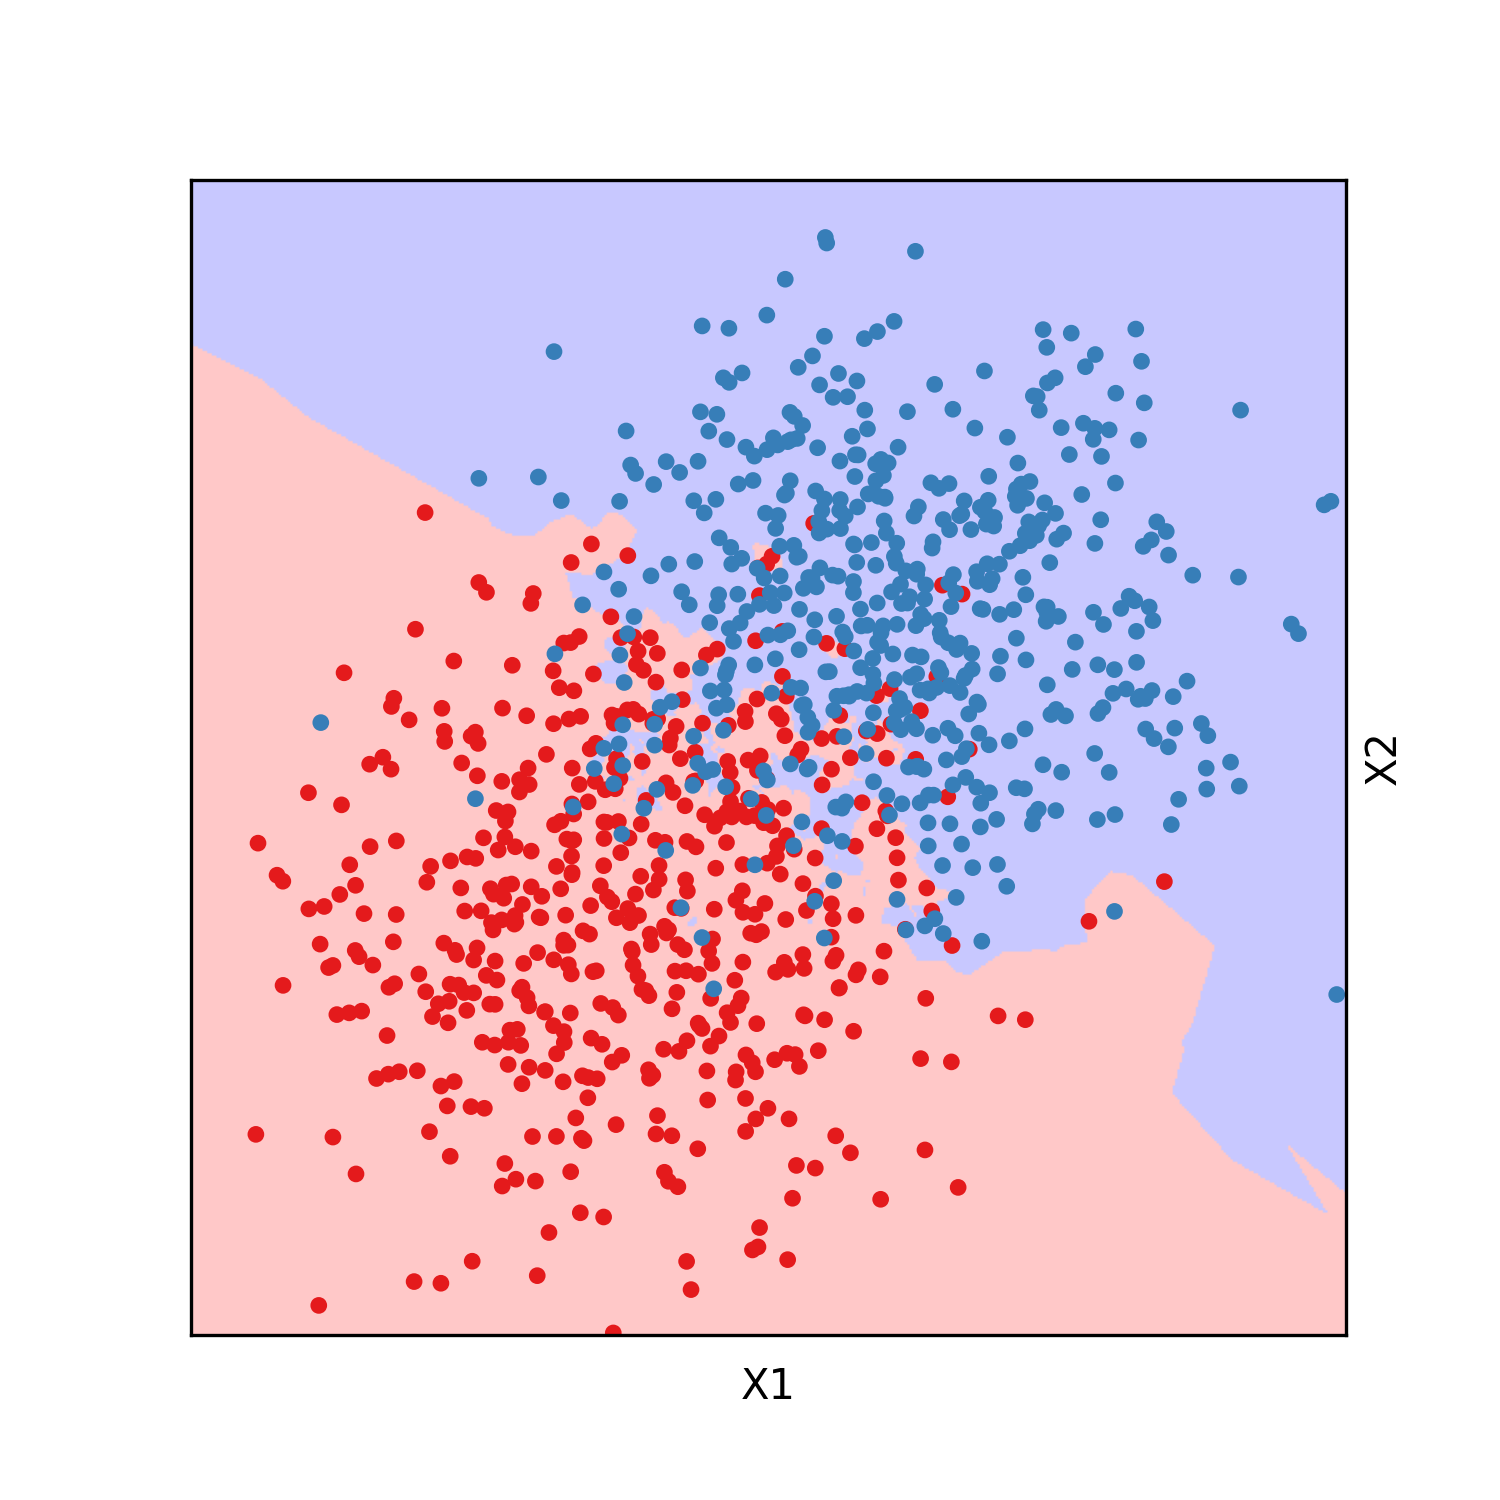
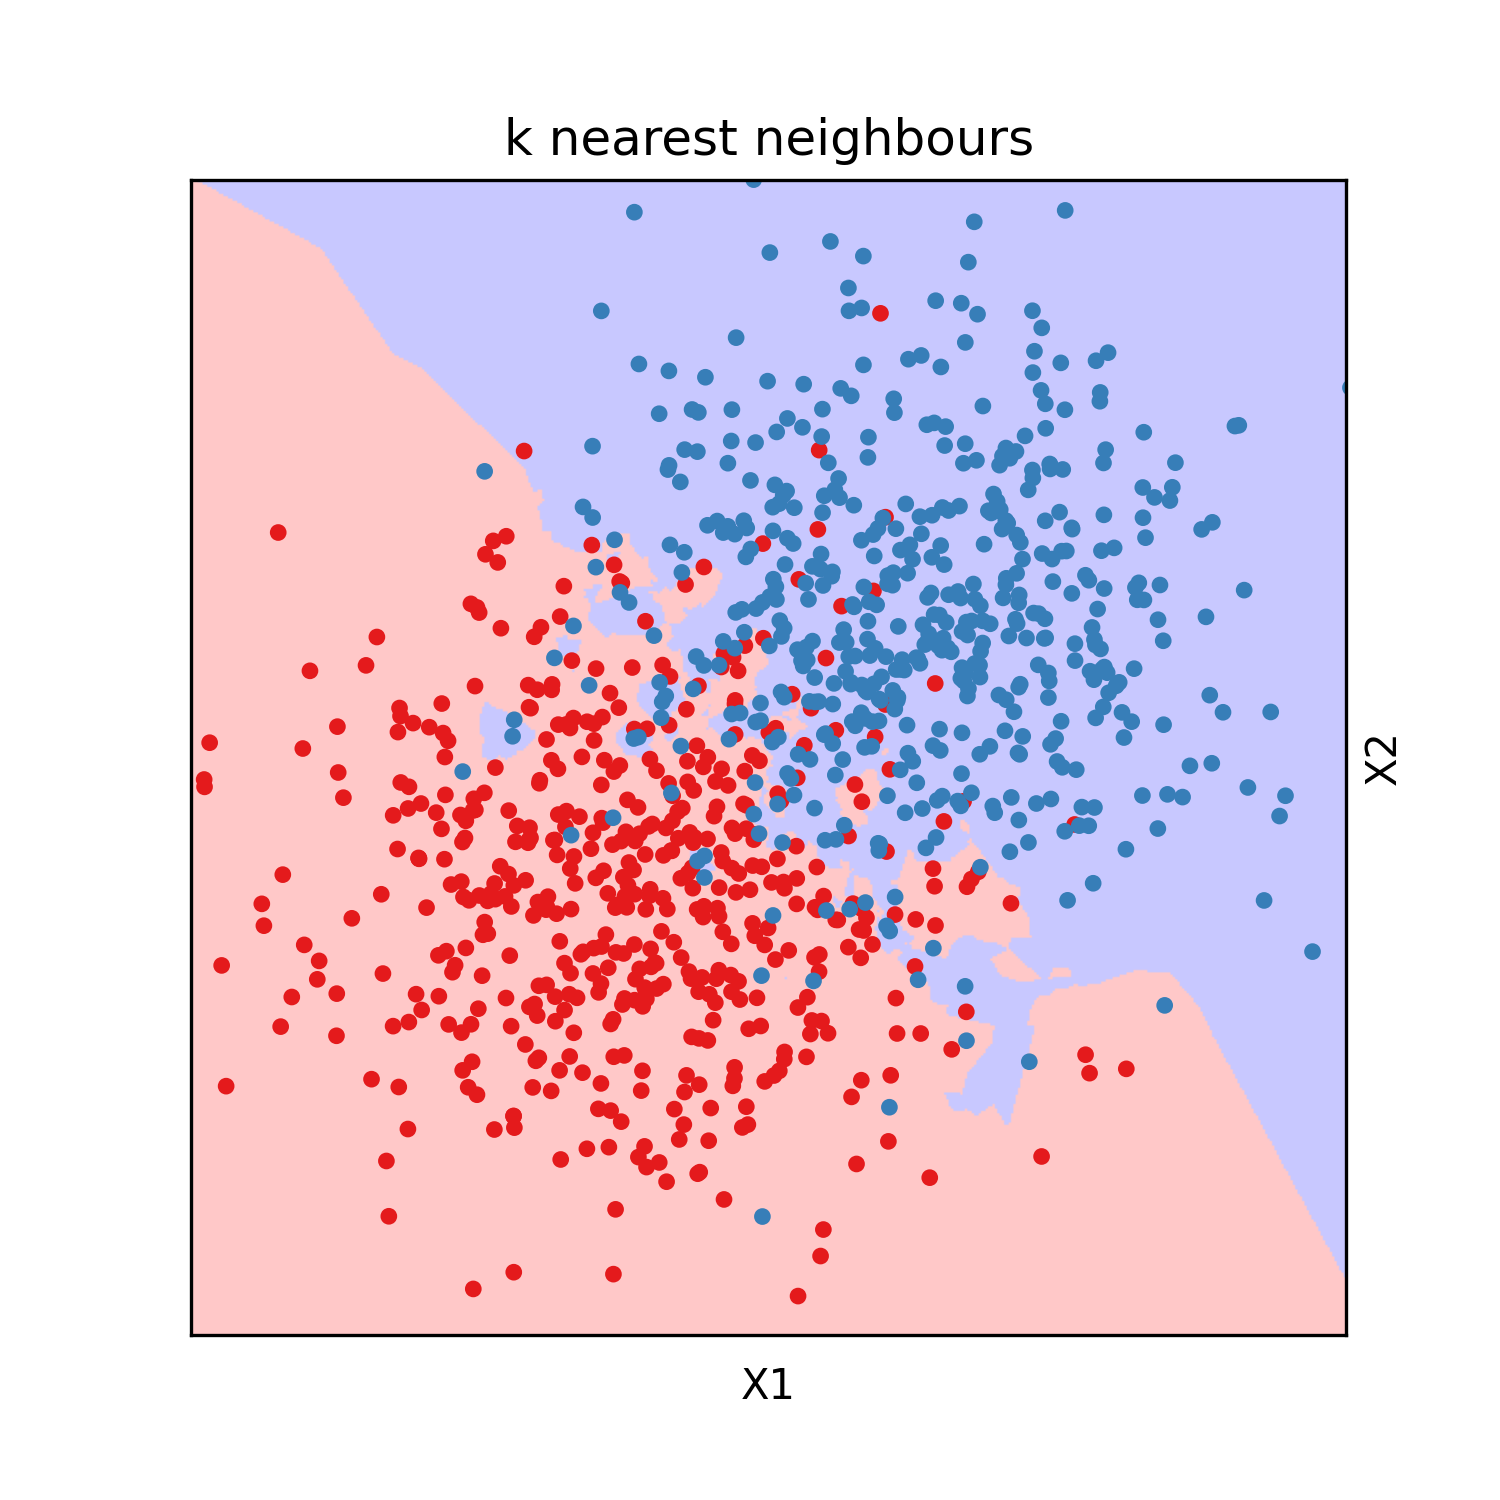
modified polynomial regression

diff --git a/introduction_to_machine_learning/images/gif_lagrange_polynome_interpolation/Lagrange_polynomial_interpolation.py b/introduction_to_machine_learning/images/gif_lagrange_polynome_interpolation/Lagrange_polynomial_interpolation.py
@@ -14,7 +14,7 @@ path = pathlib.Path(__file__).parent
 
 
 def target(X):
-    return 3*X + 30 + np.random.normal(0, 10, size=X.shape)
+    return 10 * (X**3 + 0.5 * X**2 * X + np.random.normal(0, 0.2, size=X.shape) * (0.3 + np.abs(X)))
 
 
 def fit(Xobs: np.ndarray, Ytarget: np.ndarray, n: int) -> np.ndarray:
@@ -42,16 +42,16 @@ def model(X: np.ndarray, w: np.ndarray, Xobs: np.ndarray, Ytarget: np.ndarray) -
     return x@w * Ytarget.std() + Ytarget.mean()
 
 
-Xobs = np.linspace(7, 20, 30, dtype=np.longdouble)
-X = np.linspace(7, 20, 1000, dtype=np.longdouble)
+Xobs = np.linspace(-1, 1, 30, dtype=np.longdouble)
+X = np.linspace(-1, 1, 1000, dtype=np.longdouble)
 Ytarget = target(Xobs)
 delta = Ytarget.max() - Ytarget.min()
-ylims = [0, Ytarget.max() + 0.05*delta]
+ylims = [Ytarget.min() - 0.05*delta, Ytarget.max() + 0.05*delta]
 
-Xval = np.linspace(7, 20, 10, dtype=np.longdouble)
+Xval = np.linspace(-1, 1, 20, dtype=np.longdouble)
 Yval = target(Xval)
 
-weights = [fit(Xobs, Ytarget, n) for n in range(1, len(Xobs))]
+weights = [fit(Xobs, Ytarget, n) for n in range(1, 21)]
 MSE_train = [np.sum((Ytarget - model(Xobs, w, Xobs, Ytarget))**2) for w in weights]
 MSE_val = [np.sum((Yval - model(Xval, w, Xobs, Ytarget))**2) for w in weights]
 
@@ -64,6 +64,8 @@ for n, w in enumerate(weights, start=1):
     axes[0].set_ylim(ylims)
     axes[0].set_xlabel("x")
     axes[0].set_ylabel("y")
+    axes[0].set_xticks([])
+    axes[0].set_yticks([])
     axes[0].legend(loc="upper left")
 
     x_train = np.arange(1, n+1) - 0.25/2
@@ -98,7 +100,7 @@ for n, w in enumerate(weights, start=1):
 
 image = PIL.Image.open(files[0]).convert('P')
 images = [PIL.Image.open(file).convert('P') for file in files[1:] + [files[-1]]*5]
-image.save(path / 'Lagrange_polynomial_interpolation.gif', save_all=True, append_images=images, loop=0, duration=10, transparency=0, disposal=2)
+image.save(path / 'Lagrange_polynomial_interpolation.gif', save_all=True, append_images=images, loop=0, duration=500, transparency=0, disposal=2)
 
 for file in files:
     os.remove(file)

diff --git a/introduction_to_machine_learning/images/gif_v_shape_linear_regression/v_shape.py b/introduction_to_machine_learning/images/gif_v_shape_linear_regression/v_shape.py
@@ -1,0 +1,62 @@
+import numpy as np
+from scipy.interpolate import lagrange
+import matplotlib as mpl
+import matplotlib.pyplot as plt
+import PIL
+import pathlib
+import numpy as np
+import os
+
+plt.style.use("bmh")
+path = pathlib.Path(__file__).parent
+
+
+def fit(Xobs: np.ndarray, Ytarget: np.ndarray, n: int) -> np.ndarray:
+    """
+    returns weights of polynom of degree n
+    """
+    Xobs = (Xobs - Xobs.mean())/Xobs.std()
+    Ytarget = (Ytarget - Ytarget.mean()) / Ytarget.std()
+    if n < len(Xobs)-1:
+        xobs = np.stack([Xobs**i for i in range(n, -1, -1)], axis=1)
+        w, _, _, _ = np.linalg.lstsq(xobs, Ytarget, rcond=None)
+    else:
+        poly = lagrange(Xobs, Ytarget)
+        w = poly.coef
+    return w
+
+
+def model(X: np.ndarray, w: np.ndarray, Xobs: np.ndarray, Ytarget: np.ndarray) -> np.ndarray:
+    """
+    interpolates with given model
+    """
+    X = (X - Xobs.mean())/Xobs.std()
+    n = len(w) - 1
+    x = np.stack([X**i for i in range(n, -1, -1)], axis=1)
+    return x@w * Ytarget.std() + Ytarget.mean()
+
+
+x = np.linspace(-5, 5, 1001)
+y = np.abs(x)
+files = []
+
+f, ax = plt.subplots(figsize=[5, 5])
+for n in range(1, 21):
+    ax.clear()
+    w = fit(x, y, n)
+    ax.plot(x, y, linestyle="-", color="k", label="target")
+    ax.plot(x, model(x, w, x, y), linestyle=":", color="C1", label=f"polynomial of order {n}")
+    ax.set_xlabel("x")
+    ax.set_ylabel("y")
+    ax.set_ylim([y.min(), y.max()])
+    ax.legend()
+    file_name = path / f"v_shape_{n}.png"
+    files.append(file_name)
+    f.savefig(file_name, transparent=True, dpi=300)
+
+image = PIL.Image.open(files[0]).convert('P')
+images = [PIL.Image.open(file).convert('P') for file in files[1:] + [files[-1]]*5]
+image.save(path / 'v_shape.gif', save_all=True, append_images=images, loop=0, duration=100, transparency=0, disposal=2)
+
+for file in files:
+    os.remove(file)

diff --git a/introduction_to_machine_learning/images/polynomial_fit/polynomial_fit.py b/introduction_to_machine_learning/images/polynomial_fit/polynomial_fit.py
@@ -1,0 +1,49 @@
+from mpl_toolkits import mplot3d
+import matplotlib as mpl
+import matplotlib.pyplot as plt
+from scipy.interpolate import lagrange
+import numpy as np
+import pathlib
+
+path = pathlib.Path(__file__).parent
+
+
+def fit(Xobs: np.ndarray, Ytarget: np.ndarray, n: int) -> np.ndarray:
+    """
+    returns weights of polynom of degree n
+    """
+    xobs = np.stack([Xobs[..., 0]*Xobs[..., 1]] + [Xobs[..., j]**i for i in range(n, -1, -1) for j in range(2)], axis=1).reshape((Xobs.shape[0], -1))
+    w, _, _, _ = np.linalg.lstsq(xobs, Ytarget, rcond=None)
+    return w
+
+
+def model(X: np.ndarray, w: np.ndarray, n: int) -> np.ndarray:
+    """
+    interpolates with given model
+    """
+    x = np.stack([X[..., 0]*X[..., 1]] + [X[..., j]**i for i in range(n, -1, -1) for j in range(2)], axis=1).reshape((X.shape[0], -1))
+    return x@w
+
+
+import sys
+sys.path.append(str(path.parent))
+from models_data import target, regression_data, classification_data
+
+Xobs, Yobs = regression_data()
+n = 20
+w = fit(Xobs.reshape(-1, 2), Yobs.reshape(-1), n)
+X = np.stack(np.meshgrid(np.linspace(-1, 1, 101), np.linspace(-1, 1, 101)), axis=-1)
+Z = model(X.reshape(-1, 2), w, n).reshape(X.shape[:-1])
+
+f = plt.figure(figsize=[5, 5])
+ax = f.add_subplot(111, projection='3d', computed_zorder=False)
+ax.plot_surface(X[..., 0], X[..., 1], Z, rstride=1, cstride=1, cmap="viridis")
+ax.set_xlabel("x1")
+ax.set_ylabel("x2")
+ax.set_zlabel("z")
+ax.set_xticks([])
+ax.set_yticks([])
+ax.set_zticks([])
+ax.set_title(f"polynomial of order {n} with first order interactions")
+
+f.savefig(path / "polynomial_regression.png", transparent=True, dpi=300)

diff --git a/introduction_to_machine_learning/images/k_nearest_neighbours/k_nearest_neighbours.py b/introduction_to_machine_learning/images/k_nearest_neighbours/k_nearest_neighbours.py
@@ -35,6 +35,7 @@ ax.set_zticks([])
 ax.set_xlabel("X1")
 ax.set_ylabel("X2")
 ax.set_zlabel("Y")
+ax.set_title("k nearest neighbours")
 
 f.savefig(path / "k_nearest_regression.png", transparent=True, dpi=300)
 
@@ -61,6 +62,7 @@ ax.set_xticks([])
 ax.set_yticks([])
 ax.set_xlabel("X1")
 ax.set_ylabel("X2")
+ax.set_title("k nearest neighbours")
 ax.yaxis.set_label_position("right")
 
 f.savefig(path / "k_nearest_classification.png", transparent=True, dpi=300)

diff --git a/introduction_to_machine_learning/introduction_to_machine_learning.md b/introduction_to_machine_learning/introduction_to_machine_learning.md
@@ -88,7 +88,21 @@ And each classification model will be fitted on random sample from two gaussian 
 
 ### linear and polynomial regression
 
+Linear models are models of the form y = a1 \* x1 + ... + an \* xn + b. 
+This include polynomials of any order if we set xi = x^i. Sometimes interaction terms of the form xi\*xj are also added, as well as any custom numerical feature.
+This kind of models have the adventage to have an analytical for the parameters that minimize the sum of squared errors to observations, which means training is orders of magnitude faster than other type of models. Linear models (polynomials of order one) have also the adventage to be easy to interpret.
+
 ![linear and polynomials models](images/linear_regression/linear_regression.png)
+
+Polynomials are in theory universal regressors: Any set of observations (y, x1, ..., xn) admits a multivariate Lagrange interpolation polynomial that goes through all observations without any error. In practice they generalize poorly to new data, especially with high polynomial orders. And as illustrated below its expressive power scales poorly with polynomial order. Even for a simple 1D function such has the absolute value.
+
+![poor fitting with polynomial](images/gif_v_shape_linear_regression/v_shape.gif)
+
+The fitting of our test function gives the following result:
+
+![polynomial regression](images/polynomial_fit/polynomial_regression.png)
+
+For this reason this kind of models are mostly restricted to linear models or low order polynomials.
 
 ### k nearest neighbours
 
